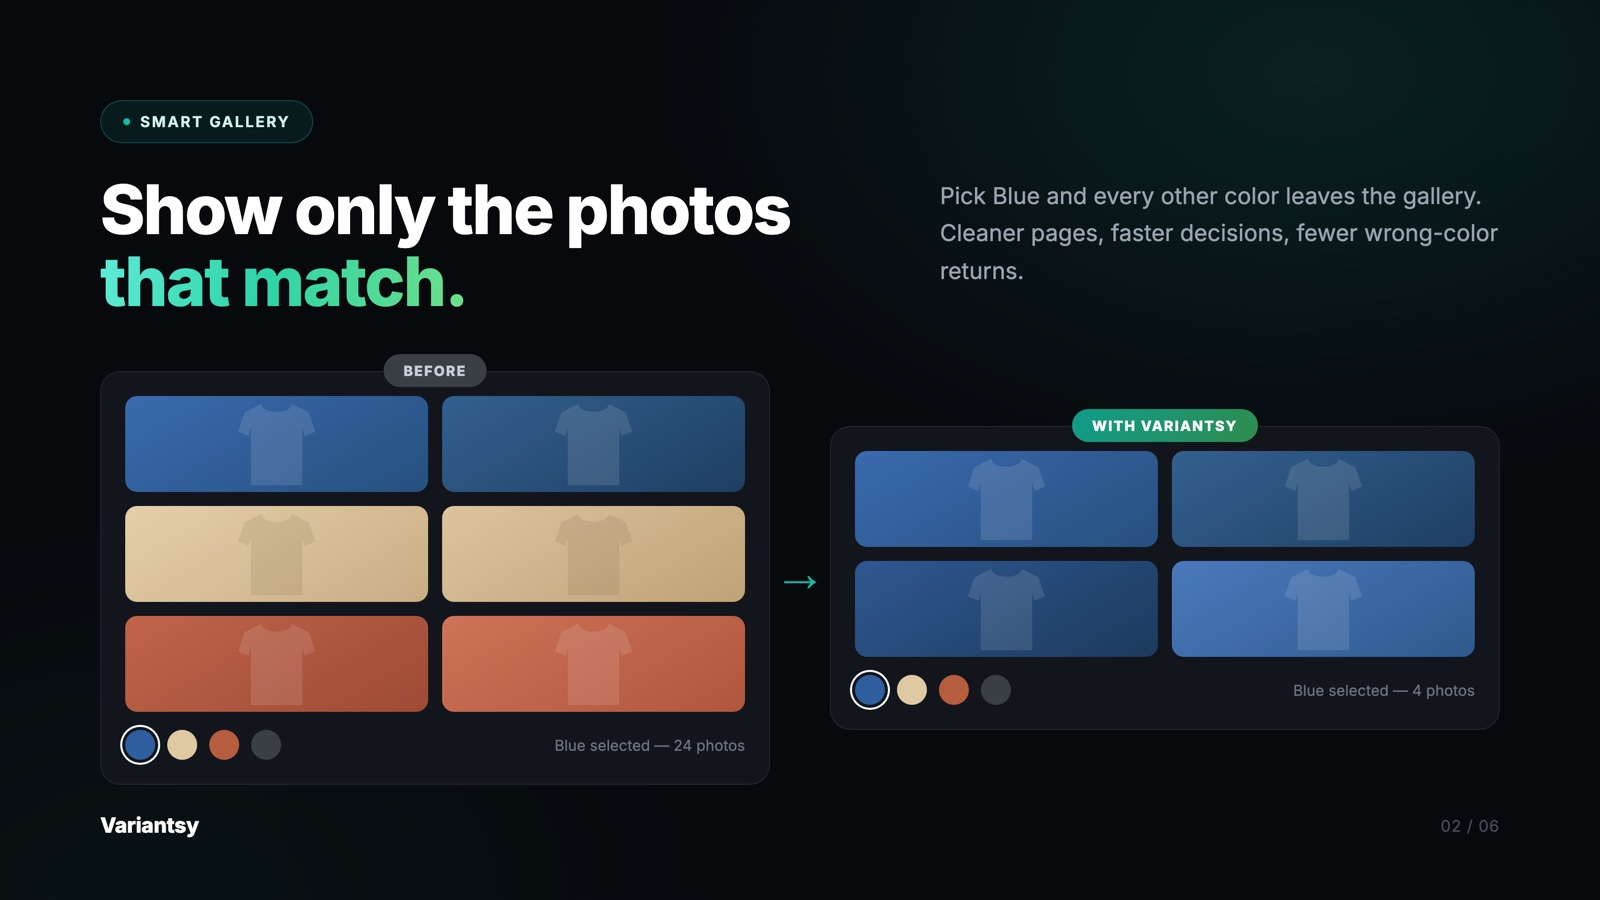
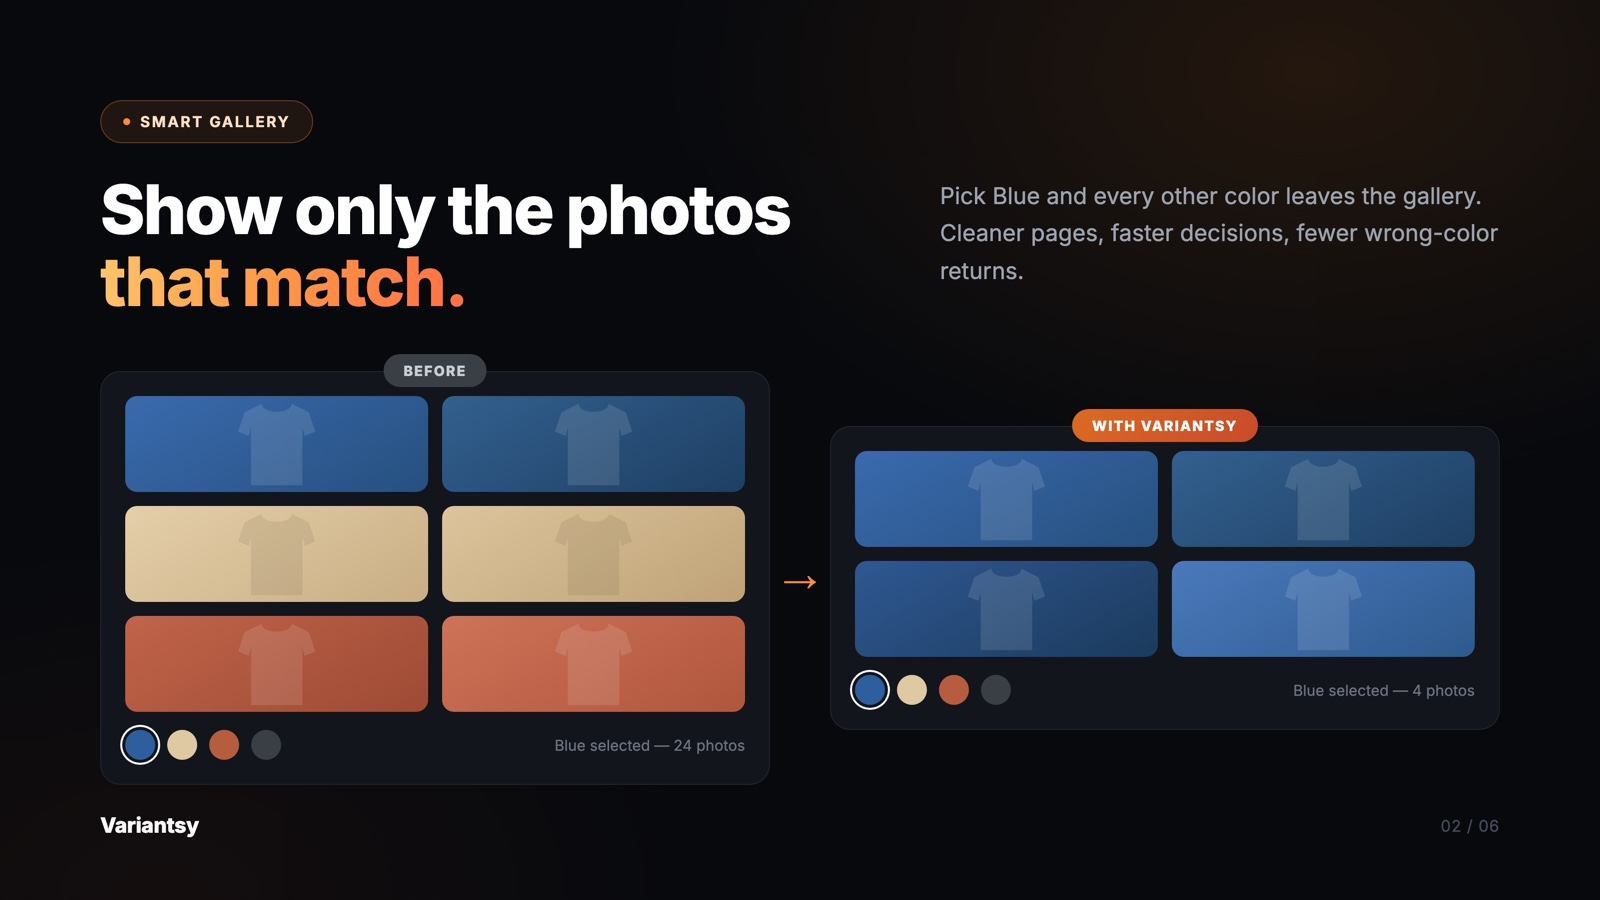
La marque passe a l'orange Soleil
L'emeraude livree juste avant est remplacee. La palette etant centralisee, la
bascule a tenu en trois endroits : le bloc :root des slides, les deux
constantes de marque de l'admin, et l'icone canonique regeneree depuis
declinaisons.html.

Soleil etait la couleur recommandee au depart : c'est la seule absente des
resultats « variant swatches » de l'App Store, ou le violet est celui du
premier concurrent, le marine celui du deuxieme, le turquoise et le vert ceux
des suivants.

Dans l'admin, les traits fins et le texte de 8 px sur blanc prennent un orange
fonce (#C2410C) : l'orange vif de l'icone y serait illisible. Les aplats des
slides qui portent du texte blanc sont assombris pour la meme raison.

PNG et JPG regeneres ensemble, aux 1600 x 900 attendus par Shopify.

diff --git a/app-store/slides/style.css b/app-store/slides/style.css
@@ -10,25 +10,25 @@
   --texte: #FFFFFF;
   --gris: #9BA3AF;
   --gris-fort: #6B7280;
-  /* ---- Couleur de MARQUE : émeraude ----------------------------------
+  /* ---- Couleur de MARQUE : orange Soleil ------------------------------
      TOUTE la charte tient dans ce bloc. Changer de couleur de marque, c'est
-     changer ces huit lignes et rien d'autre : aucune teinte de marque n'est
-     écrite en dur ailleurs, dans ce fichier comme dans slides.html.
+     changer ce bloc et rien d'autre : aucune teinte de marque n'est écrite
+     en dur ailleurs, dans ce fichier comme dans slides.html.
 
      À ne pas confondre avec les teintes des PRODUITS montrés dans les
      maquettes (--*-tee) : elles décrivent la boutique d'un marchand et ne
      suivent pas la charte. */
-  --marque: #14B8A6;                 /* points, liserés, états choisis */
-  --marque-rgb: 20,184,166;          /* voiles et ombres en rgba() */
-  --marque-texte: #CFF1E8;           /* texte clair teinté */
-  --titre-1: #5EEAD4;                /* dégradé du titre : clair, */
-  --titre-2: #2DD4A7;                /* car posé sur fond presque */
-  --titre-3: #6EE08A;                /* noir */
-  --plein-1: #0F9C8A;                /* aplats portant du texte blanc : */
-  --plein-2: #2E8C4E;                /* plus sombres, pour rester lisibles */
-  --jeton-fond: #16201E;
-  --lueur-rgb: 20,130,110;
-  --lueur-2-rgb: 15,70,60;
+  --marque: #FF8C3B;                 /* points, liserés, états choisis */
+  --marque-rgb: 255,140,59;          /* voiles et ombres en rgba() */
+  --marque-texte: #FFE0C4;           /* texte clair teinté */
+  --titre-1: #FFC46B;                /* dégradé du titre : clair, */
+  --titre-2: #FF9A45;                /* car posé sur fond presque */
+  --titre-3: #FF6F45;                /* noir */
+  --plein-1: #DB6A22;                /* aplats portant du texte blanc : */
+  --plein-2: #C94A2A;                /* plus sombres, pour rester lisibles */
+  --jeton-fond: #221A14;
+  --lueur-rgb: 150,80,20;
+  --lueur-2-rgb: 90,40,15;
   --bleu-tee: #2F5E9E;
   --beige-tee: #DFC9A3;
   --terre-tee: #B65C3F;

diff --git a/app/components/schemas.tsx b/app/components/schemas.tsx
@@ -15,17 +15,17 @@ import { BlockStack, Text } from "@shopify/polaris";
 export const BLUE = "#2C5AA0";
 export const BEIGE = "#D8C3A5";
 
-/** Couleur de MARQUE de Variantsy — émeraude, celle de l'icône.
+/** Couleur de MARQUE de Variantsy — orange Soleil, celle de l'icône.
  *
  *  Réservée aux endroits où c'est VARIANTSY qui est dessiné : le câblage des
  *  fiches liées, la galerie filtrée, l'app dans l'éditeur de thème. Les
  *  maquettes de l'interface SHOPIFY gardent les jetons Polaris : y mettre la
  *  marque ferait croire que Shopify porte nos couleurs.
  *
- *  `MARQUE` est plus sombre que l'émeraude de l'icône : elle sert à des traits
+ *  `MARQUE` est plus sombre que l'orange de l'icône : elle sert à des traits
  *  fins et à du texte de 8 px sur blanc, où la teinte claire disparaît. */
-export const MARQUE = "#0E8C6C";
-export const DEGRADE_MARQUE = "linear-gradient(145deg,#14B8A6 0%,#12A77F 46%,#3E9F5C 100%)";
+export const MARQUE = "#C2410C";
+export const DEGRADE_MARQUE = "linear-gradient(145deg,#FFB53F 0%,#FF8C3B 46%,#F2623A 100%)";
 
 /** Teinte d'une silhouette posée sur un aplat de couleur.
  *

diff --git a/app-store/fiche-app-store.md b/app-store/fiche-app-store.md
@@ -195,7 +195,7 @@ pages », devenue mensongère.
 
 ## À fournir par Maxime
 
-- App icon 1200×1200 — icone/variantsy-icon.png (émeraude), à téléverser au Partner Dashboard
+- App icon 1200×1200 — icone/variantsy-icon.png (orange Soleil), à téléverser au Partner Dashboard
 - Demo store URL — la boutique est encore protégée par mot de passe
 - Screencast URL — vidéo de 3 à 8 minutes, obligatoire
 - Confirmer QUELLE boutique sert de démonstration. Les instructions de test
